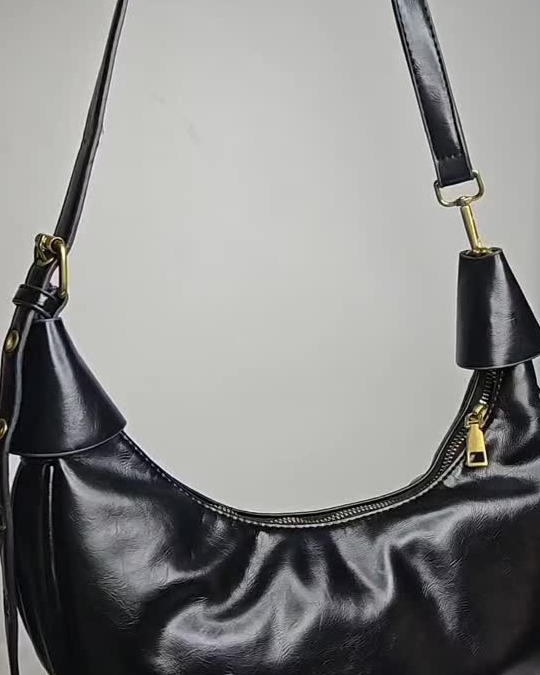
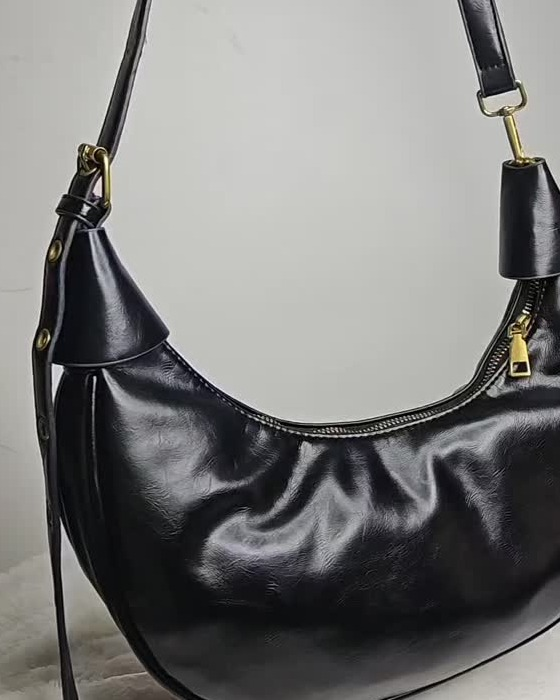
Auto-detect bag centers and crop accordingly
Replaced hand-tuned (y_center, x_center) per-image with an automatic
detector. The script in .tmp/auto_center_bags.py:
1. Samples the four corners of each photo to estimate background colour
2. Builds a binary mask of pixels that differ from the background
3. Uses the median row/column of that mask as the bag's centre
4. Crops a 4:5 window (560x700) centred on the detected bag

Robust to off-axis photos, hand position, strap shape, and lighting.
Re-runs from .tmp/bags_original/ so it's non-destructive.

Bumped IMG_VERSION to v3 in main.js to bust browser cache.

diff --git a/main.js b/main.js
@@ -1,5 +1,5 @@
 // ThriftLux frontend gallery
-const IMG_VERSION = 'v2'; // bump this whenever you re-crop/replace bag images
+const IMG_VERSION = 'v3'; // bump this whenever you re-crop/replace bag images
 (async function() {
   const gallery = document.getElementById('gallery');
   const filterMeta = document.getElementById('filterMeta');
